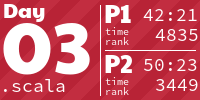
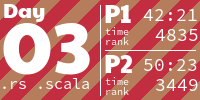
Day 3 2023

diff --git a/src/y2023/day3.rs b/src/y2023/day3.rs
@@ -1,0 +1,149 @@
+use std::{collections::HashMap, io::BufRead};
+
+use glam::IVec2;
+use itertools::Itertools;
+
+use crate::{
+    aoc::day::{DayParser, DaySolution},
+    common::{
+        grid::{directions::Directions, parse_map},
+        parsing::lines_iter,
+    },
+};
+
+pub const TITLE: &str = "Gear Ratios";
+
+enum Tile {
+    Number(u8),
+    Part(char),
+    Empty,
+}
+
+struct PartNumber {
+    number: u32,
+    part: char,
+    part_pos: IVec2,
+}
+
+pub struct Solution {
+    part_numbers: Vec<PartNumber>,
+}
+
+impl DayParser for Solution {
+    fn with_input(input: &mut dyn BufRead) -> Self {
+        let engine = parse_map(lines_iter(input), |c| match c {
+            '.' => Tile::Empty,
+            digit if digit.is_ascii_digit() => Tile::Number(digit.to_digit(10).unwrap() as u8),
+            symbol => Tile::Part(symbol),
+        });
+
+        let size = engine.keys().fold(IVec2::ZERO, |acc, pos| acc.max(*pos));
+
+        let mut current_numbers: Option<Vec<IVec2>> = None;
+        let mut part_numbers: Vec<PartNumber> = vec![];
+        for y in 0..=size.y {
+            for x in 0..=size.x {
+                match engine.get(&IVec2::new(x, y)).unwrap() {
+                    Tile::Number(_) => {
+                        if let Some(mut numbers) = current_numbers {
+                            numbers.push(IVec2::new(x, y));
+                            current_numbers = Some(numbers);
+                        } else {
+                            current_numbers = Some(vec![IVec2::new(x, y)]);
+                        }
+                    }
+                    _ => {
+                        if let Some(numbers) = current_numbers {
+                            if let Some(part_number) = get_part_number(&engine, numbers) {
+                                part_numbers.push(part_number);
+                            }
+                            current_numbers = None;
+                        }
+                    }
+                }
+            }
+        }
+
+        Self { part_numbers }
+    }
+}
+
+fn get_part_number(engine: &HashMap<IVec2, Tile>, numbers: Vec<IVec2>) -> Option<PartNumber> {
+    let number = numbers
+        .iter()
+        .map(|pos| match engine.get(pos).unwrap() {
+            Tile::Number(number) => *number as u32,
+            _ => panic!("Expected number"),
+        })
+        .fold(0, |acc, digit| acc * 10 + digit);
+
+    numbers
+        .iter()
+        .flat_map(|pos| pos.neighbors())
+        .find_map(|pos| match engine.get(&pos) {
+            Some(Tile::Part(part)) => Some(PartNumber {
+                number,
+                part: *part,
+                part_pos: pos,
+            }),
+            _ => None,
+        })
+}
+
+impl DaySolution for Solution {
+    fn part1(&self) -> String {
+        self.part_numbers
+            .iter()
+            .map(|part_number| part_number.number)
+            .sum::<u32>()
+            .to_string()
+    }
+
+    fn part2(&self) -> String {
+        self.part_numbers
+            .iter()
+            .filter(|part_number| part_number.part == '*')
+            .into_grouping_map_by(|&part_number| part_number.part_pos)
+            .collect::<Vec<_>>()
+            .into_iter()
+            .filter_map(|(_pos, part_numbers)| {
+                if part_numbers.len() == 2 {
+                    Some(part_numbers[0].number * part_numbers[1].number)
+                } else {
+                    None
+                }
+            })
+            .sum::<u32>()
+            .to_string()
+    }
+}
+
+#[cfg(test)]
+mod tests {
+    use super::*;
+    use crate::input;
+
+    #[test]
+    fn test_part1_example() {
+        let solution = Solution::with_input(input!(example));
+        assert_eq!(solution.part1(), "4361");
+    }
+
+    #[test]
+    fn test_part1_input() {
+        let solution = Solution::with_input(input!(input));
+        assert_eq!(solution.part1(), "553079");
+    }
+
+    #[test]
+    fn test_part2_example() {
+        let solution = Solution::with_input(input!(example));
+        assert_eq!(solution.part2(), "467835");
+    }
+
+    #[test]
+    fn test_part2_input() {
+        let solution = Solution::with_input(input!(input));
+        assert_eq!(solution.part2(), "84363105");
+    }
+}

diff --git a/benches/solutions.rs b/benches/solutions.rs
@@ -63,5 +63,5 @@ benchmarks!(
     (Benchmark2016 / y2016: day1),
     (Benchmark2021 / y2021: day1),
     (Benchmark2022 / y2022: day1, day3, day4, day6, day10, day13, day16, day17, day23, day24, day25),
-    (Benchmark2023 / y2023: day1, day2),
+    (Benchmark2023 / y2023: day1, day2, day3),
 );

diff --git a/src/lib.rs b/src/lib.rs
@@ -62,5 +62,5 @@ aoc_solutions!(
     y2016: day1;
     y2021: day1;
     y2022: day1, day3, day4, day6, day10, day13, day16, day17, day23, day24, day25;
-    y2023: day1, day2;
+    y2023: day1, day2, day3;
 );

diff --git a/README.md b/README.md
@@ -11,7 +11,7 @@ Rust solutions for [Advent of Code](http://adventofcode.com/). My scala solution
 <a href="src/y2023/day2.rs">
   <img src="AoCTiles/2023/02.png" width="161px">
 </a>
-<a href="https://github.com/SuperTux88/adventofcode/blob/main/src/main/scala/adventofcode/y2023/Day3.scala">
+<a href="src/y2023/day3.rs">
   <img src="AoCTiles/2023/03.png" width="161px">
 </a>
 <h1 align="center">
